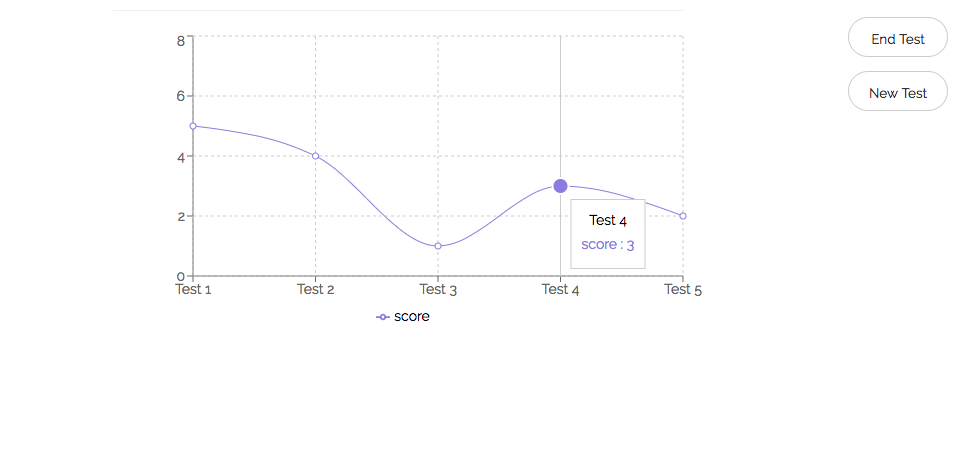
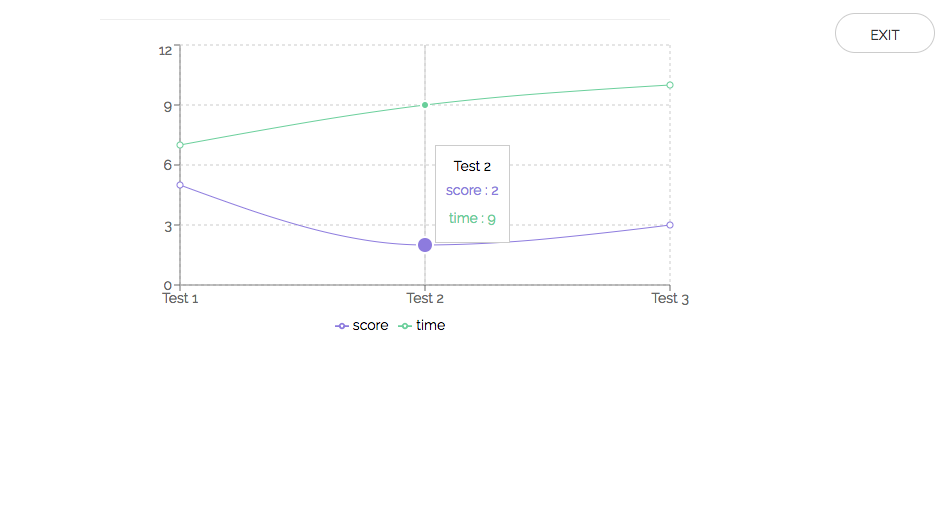
time added to graph

diff --git a/src/components/Test.js b/src/components/Test.js
@@ -7,6 +7,7 @@ import $ from 'jquery';
 class Test extends Component {
   constructor() {
     super();
+    const startTime = Date.now();
     this.state = {
       questions: [],
       lower: 0,
@@ -16,6 +17,9 @@ class Test extends Component {
       chartData: [],
       numTest: 0,
       end: 0,
+      qAns: 0,
+      startTime: startTime,
+      times: [],
     }
   }
 
@@ -76,17 +80,29 @@ class Test extends Component {
     this.setState({ questions: questions, numTest: this.state.numTest + 1, end: 0 });
   }
 
-  updateScore(score) {
-    this.setState({ score: score });
+  updateScore(score, id) {
+    var timesArray = this.state.times;
+    if(this.state.qAns === this.state.total-1) {
+      var timesNow = Date.now();
+      timesArray.push(timesNow);
+    }
+    this.setState({ score: score, qAns: this.state.qAns + 1, times: timesArray });
   }
 
   newTest() {
     var chartData = this.state.chartData;
+    const { times } = this.state;
+    var testTime;
+    if(this.state.numTest === 1) {
+      testTime = Math.floor((times[this.state.numTest-1] - this.state.startTime)/1000);
+    } else {
+      testTime = Math.floor((times[this.state.numTest-1] - times[this.state.numTest-2])/1000);
+    }
     var eachTestData = {
       name: 'Test '+this.state.numTest.toString(),
       score: this.state.score,
+      time: testTime,
     };
-    console.log(chartData);
     chartData.push(eachTestData);
     this.setState({
       questions: [],
@@ -95,6 +111,7 @@ class Test extends Component {
       score: 0,
       total: this.state.total,
       chartData: chartData,
+      qAns: 0,
     }, () => {
       this.generateQuestions();
     });
@@ -102,13 +119,22 @@ class Test extends Component {
 
   endTest() {
     $(".score-board, .test-btn .test-area").hide();
-    $("#new-btn").hide();
+    $("#end-btn, #new-btn").hide();
+    $(".refresh").show();
     var chartData = this.state.chartData;
+    const { times } = this.state;
+    var testTime;
+    if(this.state.numTest === 1) {
+      testTime = Math.floor((times[this.state.numTest-1]- this.state.startTime)/1000);
+    } else {
+      testTime = Math.floor((times[this.state.numTest-1] - times[this.state.numTest-2])/1000);
+    }
     var eachTestData = {
       name: 'Test '+this.state.numTest.toString(),
       score: this.state.score,
+      time: testTime,
     };
-    console.log(chartData);
+
     chartData.push(eachTestData);
     this.setState({
       questions: [],
@@ -118,6 +144,8 @@ class Test extends Component {
       total: this.state.total,
       chartData: chartData,
       end: 1,
+      qAns: 0,
+      times: [],
     }, () => {
       $(".testChart").show(100);
     });
@@ -151,6 +179,7 @@ class Test extends Component {
           <div className="col-md-3">
             <button className="btn btn-default test-btn end" id="end-btn" onClick={this.endTest.bind(this)}>End Test</button>
             <button className="btn btn-default test-btn new" id="new-btn" onClick={this.newTest.bind(this)}>New Test</button>
+            <a href="/" className="btn btn-default test-btn refresh">EXIT</a>
           </div>
         </div>
         <button className="btn btn-default start" onClick={this.generateQuestions.bind(this)}>start</button>

diff --git a/src/components/Question.js b/src/components/Question.js
@@ -8,17 +8,17 @@ class Learn extends Component {
   }
 
   check(each, e) {
-    console.log(each);
-    console.log(this.props.data.type);
     if(this.props.data.type === each) {
       $("#"+this.props.data.word+each+this.props.data.type+"").css({'background-color': '#90EE90'});
       var currScore = this.props.state.score;
       currScore = currScore + 1;
-      this.props.passScore(currScore);
+      this.props.passScore(currScore, this.props.data.id);
     }
     else {
       $("#"+this.props.data.word+each+this.props.data.type+"").css({'background-color': '#FF9494'});
       $("#"+this.props.data.word+this.props.data.type+this.props.data.type+"").css({'background-color': '#90EE90'});
+      var currScore = this.props.state.score;
+      this.props.passScore(currScore, this.props.data.id)
     }
   }
 

diff --git a/src/components/Chart.js b/src/components/Chart.js
@@ -14,6 +14,7 @@ class Chart extends Component {
          <Tooltip/>
          <Legend />
          <Line type="monotone" dataKey="score" stroke="#8884d8" activeDot={{r: 8}}/>
+         <Line type="monotone" dataKey="time" stroke="#82ca9d" />
       </LineChart>
     );
   }

diff --git a/src/App.css b/src/App.css
@@ -112,3 +112,12 @@
   width: 100%;
   height: 400px;
 }
+
+.refresh {
+  display: none;
+  width: 100px;
+  height: 40px;
+  line-height: 30px;
+  position: absolute;
+  margin-top: 1em;
+}
